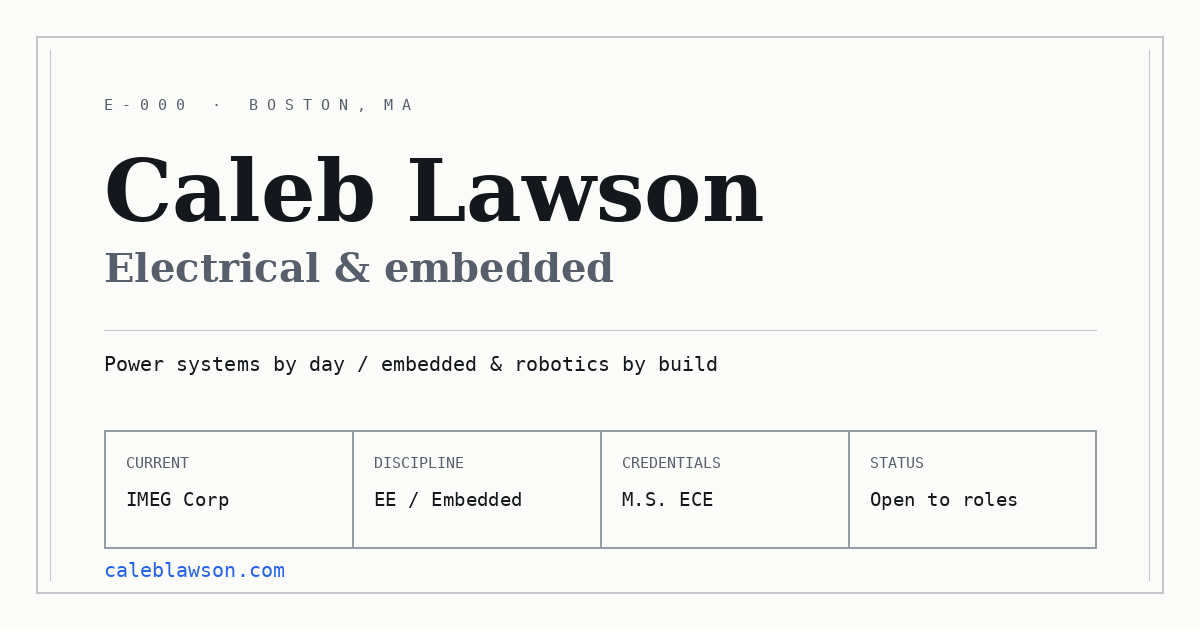
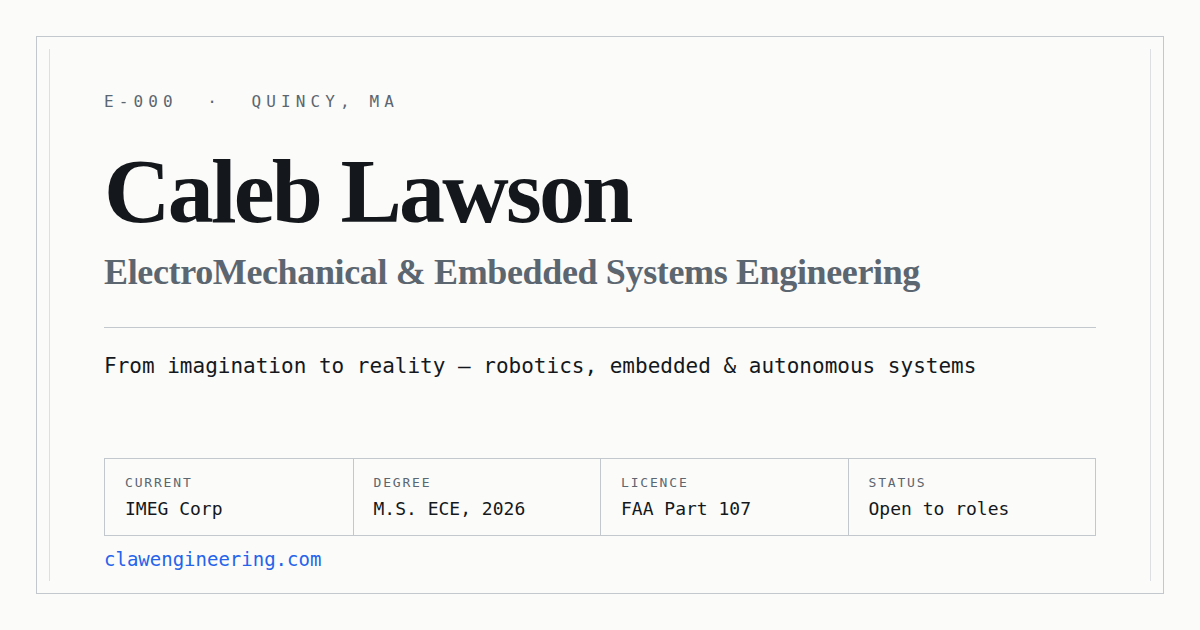
Hiring panel asks the question; regenerate the stale share card
- Hero: tag "Are you hiring?", headline "From imagination to reality",
  and the body now opens with the ask for a full-time role.
- og.png said Boston, caleblawson.com and "Electrical & embedded"; rebuilt
  from scripts/og-card.html to match the site (Quincy, clawengineering.com).
  One alt text for the one card, on every page including generated ones.

Claude-Session: https://claude.ai/code/session_01Pw4Y4FxNMGRch6QeZcJTrH

diff --git a/scripts/og-card.html b/scripts/og-card.html
@@ -1,0 +1,46 @@
+<!doctype html>
+<!-- Source for assets/img/og.png (1200×630 link-preview card).
+     Re-render after editing:  open at 1200×630 and screenshot, e.g.
+     npx playwright screenshot --viewport-size=1200,630 scripts/og-card.html assets/img/og.png -->
+<html lang="en">
+<head>
+<meta charset="utf-8">
+<link href="https://fonts.googleapis.com/css2?family=IBM+Plex+Mono:wght@400;500&family=IBM+Plex+Serif:wght@600&display=swap" rel="stylesheet">
+<style>
+  * { margin: 0; box-sizing: border-box; }
+  body { width: 1200px; height: 630px; background: #fbfbf9; color: #14181c; font-family: "IBM Plex Mono", monospace; }
+  .frame { position: absolute; inset: 36px; border: 1px solid #c3c8ce; }
+  .frame::before, .frame::after { content: ""; position: absolute; top: 12px; bottom: 12px; width: 1px; background: #dde0e3; }
+  .frame::before { left: 12px; } .frame::after { right: 12px; }
+  .in { position: absolute; inset: 92px 104px 60px; }
+  .eyebrow { font-size: 16px; letter-spacing: .32em; color: #5c6670; text-transform: uppercase; }
+  h1 { font-family: "IBM Plex Serif", serif; font-weight: 600; font-size: 92px; line-height: 1; letter-spacing: -.03em; margin-top: 34px; }
+  h2 { font-family: "IBM Plex Serif", serif; font-weight: 600; font-size: 36px; color: #5c6670; margin-top: 14px; letter-spacing: -.01em; }
+  .rule { height: 1px; background: #c3c8ce; margin: 34px 0 26px; }
+  .line { font-size: 21px; }
+  .tb { position: absolute; left: 0; right: 0; bottom: 34px; display: grid; grid-template-columns: repeat(4, 1fr); border: 1px solid #c3c8ce; }
+  .tb div { padding: 16px 20px; border-left: 1px solid #c3c8ce; }
+  .tb div:first-child { border-left: 0; }
+  .k { display: block; font-size: 13px; letter-spacing: .14em; color: #5c6670; text-transform: uppercase; margin-bottom: 8px; }
+  .v { font-size: 18px; }
+  .url { position: absolute; left: 0; bottom: 0; font-size: 19px; color: #2563eb; }
+</style>
+</head>
+<body>
+  <div class="frame"></div>
+  <div class="in">
+    <p class="eyebrow">E-000 &nbsp;·&nbsp; Quincy, MA</p>
+    <h1>Caleb Lawson</h1>
+    <h2>ElectroMechanical &amp; Embedded Systems Engineering</h2>
+    <div class="rule"></div>
+    <p class="line">From imagination to reality — robotics, embedded &amp; autonomous systems</p>
+    <div class="tb">
+      <div><span class="k">Current</span><span class="v">IMEG Corp</span></div>
+      <div><span class="k">Degree</span><span class="v">M.S. ECE, 2026</span></div>
+      <div><span class="k">Licence</span><span class="v">FAA Part 107</span></div>
+      <div><span class="k">Status</span><span class="v">Open to roles</span></div>
+    </div>
+    <p class="url">clawengineering.com</p>
+  </div>
+</body>
+</html>

diff --git a/index.html b/index.html
@@ -12,7 +12,7 @@
 <meta property="og:description" content="Engineered to work, built to feel like magic. Autonomous systems, embedded electronics and UAS. Quincy, MA.">
 <meta property="og:url" content="https://clawengineering.com/">
 <meta property="og:image" content="https://clawengineering.com/assets/img/og.png">
-<meta property="og:image:alt" content="Caleb Lawson — ElectroMechanical &amp; Embedded Systems Engineer. Quincy, MA.">
+<meta property="og:image:alt" content="Caleb Lawson — ElectroMechanical &amp; Embedded Systems Engineering. Quincy, MA · IMEG Corp · M.S. ECE 2026 · FAA Part 107 · open to roles.">
 <meta name="twitter:card" content="summary_large_image">
 <meta name="theme-color" content="#fbfbf9">
 
@@ -99,13 +99,14 @@
 
       <div class="tracks">
         <a class="track track-hire track-lead" href="assets/docs/caleb-lawson-resume.pdf">
-          <span class="track-tag">Full-time roles</span>
-          <h2 class="track-title">You are hiring</h2>
+          <span class="track-tag">Are you hiring?</span>
+          <h2 class="track-title">From imagination to reality</h2>
           <p class="track-body">
-            M.S. Electrical &amp; Computer Engineering, Wentworth 2026, with an IEEE-published
-            swarm autonomy paper, an FAA Part&nbsp;107 licence, and safety-critical electrical
-            design at IMEG behind it. Looking for roles where hardware, firmware and sensors
-            have to work together — robotics, embedded and autonomous systems.
+            I am looking for a full-time role in robotics, embedded or autonomous systems —
+            anywhere hardware, firmware and sensors have to work together. I bring an M.S. in
+            Electrical &amp; Computer Engineering (Wentworth, 2026), an IEEE-published swarm
+            autonomy paper, an FAA Part&nbsp;107 licence, and safety-critical electrical design
+            at IMEG.
           </p>
           <ul class="track-marks">
             <li>Autonomous systems</li>

diff --git a/projects/nec-building-design.html b/projects/nec-building-design.html
@@ -13,7 +13,7 @@
 <meta property="og:description" content="The complete electrical service for a 50,000 sq ft commercial building — load calculation, transformer, service, feeders and panels — designed to NEC 2017 and modelled in EasyPower.">
 <meta property="og:url" content="https://clawengineering.com/projects/nec-building-design.html">
 <meta property="og:image" content="https://clawengineering.com/assets/img/projects/nec-building-card.png">
-<meta property="og:image:alt" content="P-12 — Commercial Building Electrical Design">
+<meta property="og:image:alt" content="Caleb Lawson — ElectroMechanical &amp; Embedded Systems Engineering. Quincy, MA · IMEG Corp · M.S. ECE 2026 · FAA Part 107 · open to roles.">
 <meta name="twitter:card" content="summary_large_image">
 <meta name="theme-color" content="#fbfbf9">
 

diff --git a/projects/speech-classifier.html b/projects/speech-classifier.html
@@ -13,7 +13,7 @@
 <meta property="og:description" content="Telling a spoken “yes” from a “no” across 886 recordings — a single hand-tuned frequency threshold against a K-nearest-neighbours classifier on the same blind test set.">
 <meta property="og:url" content="https://clawengineering.com/projects/speech-classifier.html">
 <meta property="og:image" content="https://clawengineering.com/assets/img/projects/speech-classifier-accuracy.png">
-<meta property="og:image:alt" content="P-13 — Spoken Yes / No Classifier">
+<meta property="og:image:alt" content="Caleb Lawson — ElectroMechanical &amp; Embedded Systems Engineering. Quincy, MA · IMEG Corp · M.S. ECE 2026 · FAA Part 107 · open to roles.">
 <meta name="twitter:card" content="summary_large_image">
 <meta name="theme-color" content="#fbfbf9">
 

diff --git a/projects/wildfire-swarm.html b/projects/wildfire-swarm.html
@@ -13,7 +13,7 @@
 <meta property="og:description" content="Senior design capstone: a Crazyflie drone swarm that flies a leader-follower search around a simulated fire, with a thermal camera and TensorFlow model drawing the containment line.">
 <meta property="og:url" content="https://clawengineering.com/projects/wildfire-swarm.html">
 <meta property="og:image" content="https://clawengineering.com/assets/img/projects/wildfire-swarm-test-rig.jpg">
-<meta property="og:image:alt" content="P-01 — Wildfire Mapping Drone Swarm">
+<meta property="og:image:alt" content="Caleb Lawson — ElectroMechanical &amp; Embedded Systems Engineering. Quincy, MA · IMEG Corp · M.S. ECE 2026 · FAA Part 107 · open to roles.">
 <meta name="twitter:card" content="summary_large_image">
 <meta name="theme-color" content="#fbfbf9">
 

diff --git a/projects/cuda-kmeans.html b/projects/cuda-kmeans.html
@@ -13,7 +13,7 @@
 <meta property="og:description" content="K-Means clustering of 3 million 20-feature game records, parallelised across an RTX 3070's 5,120 cores — 7.9 minutes on a single GPU thread down to 1.9 seconds.">
 <meta property="og:url" content="https://clawengineering.com/projects/cuda-kmeans.html">
 <meta property="og:image" content="https://clawengineering.com/assets/img/projects/cuda-kmeans-card.png">
-<meta property="og:image:alt" content="P-04 — GPU-Parallel K-Means in CUDA">
+<meta property="og:image:alt" content="Caleb Lawson — ElectroMechanical &amp; Embedded Systems Engineering. Quincy, MA · IMEG Corp · M.S. ECE 2026 · FAA Part 107 · open to roles.">
 <meta name="twitter:card" content="summary_large_image">
 <meta name="theme-color" content="#fbfbf9">
 

diff --git a/projects/elevator-logic.html b/projects/elevator-logic.html
@@ -13,7 +13,7 @@
 <meta property="og:description" content="Floor-request handling for a four-storey building, designed as gate logic in Quartus and run on a DE10-Lite FPGA — including the emergency stop path.">
 <meta property="og:url" content="https://clawengineering.com/projects/elevator-logic.html">
 <meta property="og:image" content="https://clawengineering.com/assets/img/projects/elevator-logic-board.jpg">
-<meta property="og:image:alt" content="P-10 — Elevator Control Logic">
+<meta property="og:image:alt" content="Caleb Lawson — ElectroMechanical &amp; Embedded Systems Engineering. Quincy, MA · IMEG Corp · M.S. ECE 2026 · FAA Part 107 · open to roles.">
 <meta name="twitter:card" content="summary_large_image">
 <meta name="theme-color" content="#fbfbf9">
 

diff --git a/projects/velocity-controller.html b/projects/velocity-controller.html
@@ -13,7 +13,7 @@
 <meta property="og:description" content="Closed-loop speed control to a hard spec: 15 rad/s, zero steady-state error, overshoot under 10%, and settling within 0.6 s.">
 <meta property="og:url" content="https://clawengineering.com/projects/velocity-controller.html">
 <meta property="og:image" content="https://clawengineering.com/assets/img/projects/velocity-controller-step-response.png">
-<meta property="og:image:alt" content="P-07 — DC Motor Velocity Controller">
+<meta property="og:image:alt" content="Caleb Lawson — ElectroMechanical &amp; Embedded Systems Engineering. Quincy, MA · IMEG Corp · M.S. ECE 2026 · FAA Part 107 · open to roles.">
 <meta name="twitter:card" content="summary_large_image">
 <meta name="theme-color" content="#fbfbf9">
 

diff --git a/projects/linear-pillow.html b/projects/linear-pillow.html
@@ -13,7 +13,7 @@
 <meta property="og:description" content="A back support with six independently adjustable pads, so a wheelchair user can change their own lumbar support without waiting for help.">
 <meta property="og:url" content="https://clawengineering.com/projects/linear-pillow.html">
 <meta property="og:image" content="https://clawengineering.com/assets/img/projects/lumbar-pillow-shell.png">
-<meta property="og:image:alt" content="P-06 — Linear Actuating Lumbar Pillow">
+<meta property="og:image:alt" content="Caleb Lawson — ElectroMechanical &amp; Embedded Systems Engineering. Quincy, MA · IMEG Corp · M.S. ECE 2026 · FAA Part 107 · open to roles.">
 <meta name="twitter:card" content="summary_large_image">
 <meta name="theme-color" content="#fbfbf9">
 

diff --git a/projects/lithophane-backlight.html b/projects/lithophane-backlight.html
@@ -13,7 +13,7 @@
 <meta property="og:description" content="An ESP32 backlight that senses a person entering the room and runs a slow PWM sunrise fade behind a printed lithophane, in a parametric enclosure.">
 <meta property="og:url" content="https://clawengineering.com/projects/lithophane-backlight.html">
 <meta property="og:image" content="https://clawengineering.com/assets/img/og.png">
-<meta property="og:image:alt" content="P-02 — Motion-Triggered Lithophane Backlight">
+<meta property="og:image:alt" content="Caleb Lawson — ElectroMechanical &amp; Embedded Systems Engineering. Quincy, MA · IMEG Corp · M.S. ECE 2026 · FAA Part 107 · open to roles.">
 <meta name="twitter:card" content="summary_large_image">
 <meta name="theme-color" content="#fbfbf9">
 

diff --git a/projects/fpga-display.html b/projects/fpga-display.html
@@ -13,7 +13,7 @@
 <meta property="og:description" content="A Verilog subsystem on an Intel MAX 10 — seven-segment decoder, frequency divider and display counter, with GPIO brought out for logic-analyzer capture.">
 <meta property="og:url" content="https://clawengineering.com/projects/fpga-display.html">
 <meta property="og:image" content="https://clawengineering.com/assets/img/og.png">
-<meta property="og:image:alt" content="P-03 — FPGA Display &amp; Timing Subsystem">
+<meta property="og:image:alt" content="Caleb Lawson — ElectroMechanical &amp; Embedded Systems Engineering. Quincy, MA · IMEG Corp · M.S. ECE 2026 · FAA Part 107 · open to roles.">
 <meta name="twitter:card" content="summary_large_image">
 <meta name="theme-color" content="#fbfbf9">
 

diff --git a/projects/thermometer.html b/projects/thermometer.html
@@ -13,7 +13,7 @@
 <meta property="og:description" content="Built from first principles to understand the whole chain — thermistor, divider, ADC, linearisation — landing at ±0.1 °C.">
 <meta property="og:url" content="https://clawengineering.com/projects/thermometer.html">
 <meta property="og:image" content="https://clawengineering.com/assets/img/projects/thermistor-thermometer.jpg">
-<meta property="og:image:alt" content="P-09 — Thermistor Thermometer">
+<meta property="og:image:alt" content="Caleb Lawson — ElectroMechanical &amp; Embedded Systems Engineering. Quincy, MA · IMEG Corp · M.S. ECE 2026 · FAA Part 107 · open to roles.">
 <meta name="twitter:card" content="summary_large_image">
 <meta name="theme-color" content="#fbfbf9">
 
